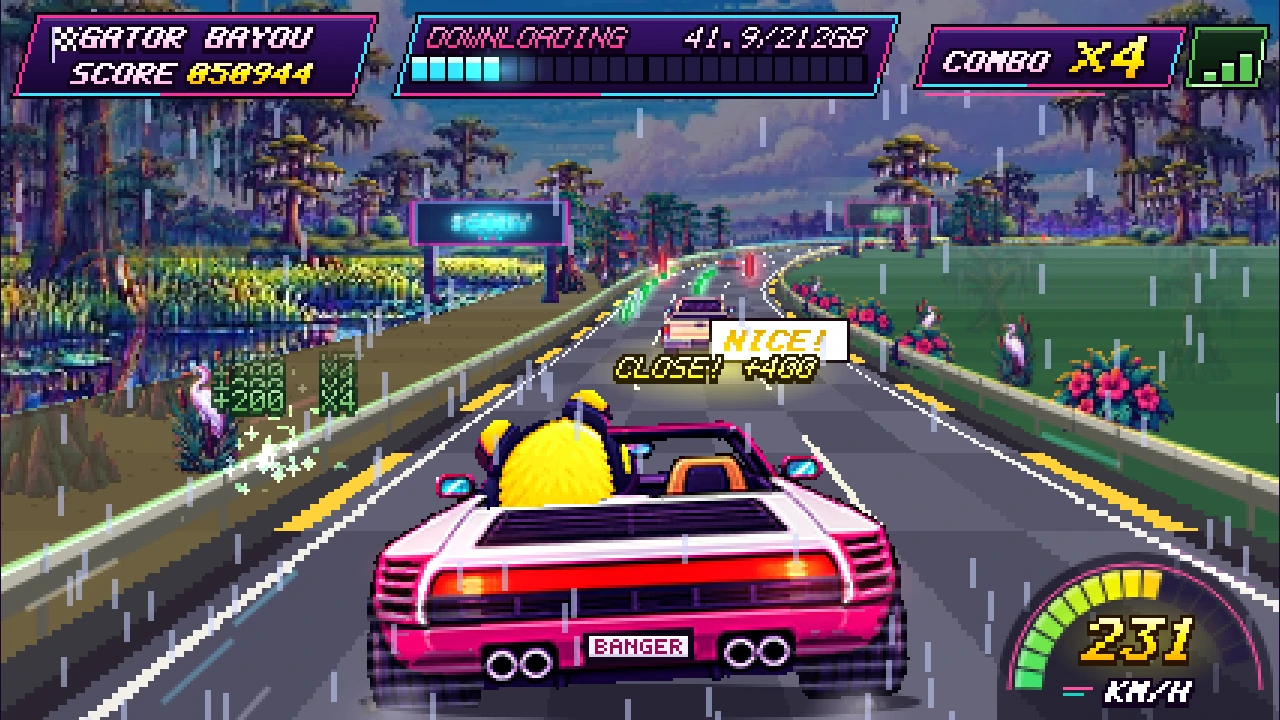
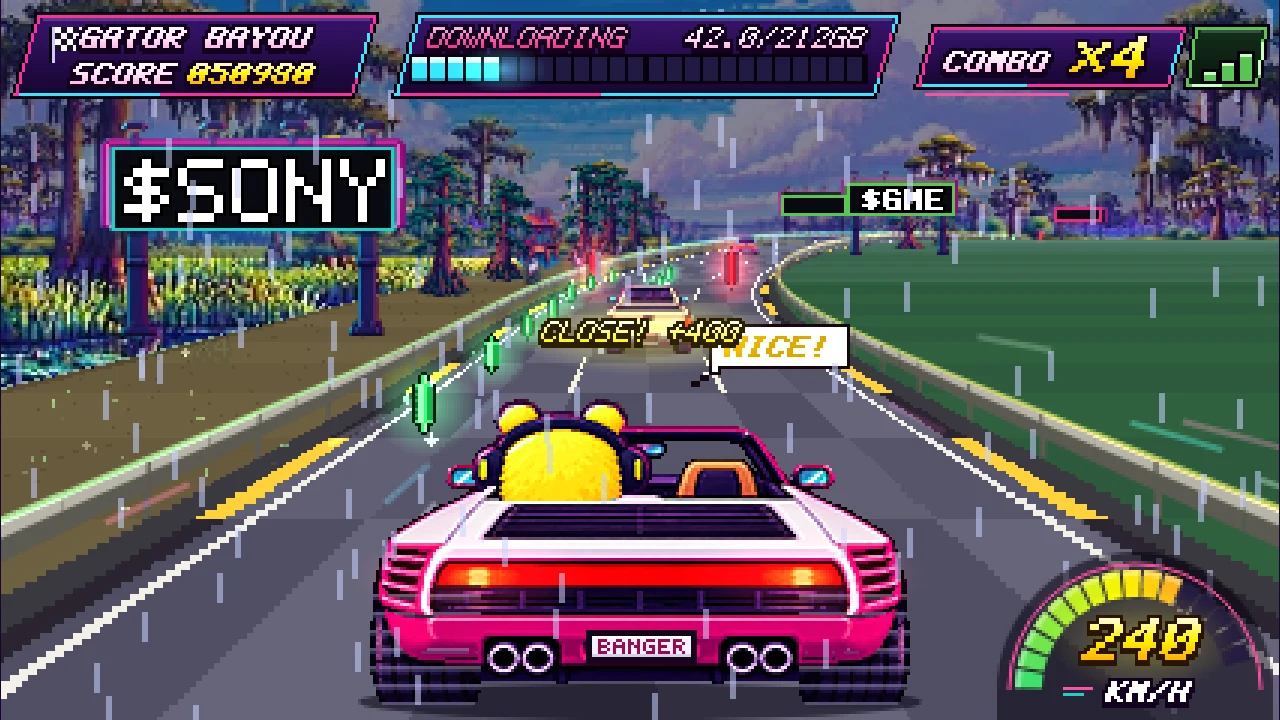
Update to v2.5.1

diff --git a/README.md b/README.md
@@ -10,7 +10,7 @@ It is part of **Bitcade**, my series of browser arcade games. It plays on phones
 no sign-up. I made it for Castro's Decibel community campaign. It is an unofficial fan game: GTA 6 is named only as a
 fan reference, and there is no Rockstar art or logo in it.
 
-**Version 2.5.0. Launching Thursday, November 12, 2026.**
+**Version 2.5.1. Launching Thursday, November 12, 2026.**
 
 ![Coral Cays: the Decibel airliner flies over the road](docs/gifs/coral_cays_flyover.gif)
 
@@ -33,9 +33,11 @@ faster you go, the faster the download fills.
 
 - **Six areas**, each with its own painted sky and roadside and one big moment of its own.
 - **Long levels** that start easy and ramp up: Coral Cays and Gator Bayou are the welcome, Neon City is the hard part.
-- **Boost shield.** A speed arrow gives you a few seconds of extra speed, a faster download and a bubble that smashes
-  through anything in your way.
+- **Boost shield.** A speed arrow gives you a few seconds of extra speed and a faster download. While it lasts the
+  car flashes neon colours and smashes through anything in its way, and the flashing speeds up just before it ends.
 - **Near-miss chains.** Skim past cars to chain close calls. Every fifth in a row is NEAR MISS X5 for +1000.
+- **Sharp roadside signs** with $TTWO, $SONY and $GME that stay readable at every distance, and scenery that fades
+  in smoothly instead of popping in.
 - **Traffic you can feel.** Cars, vans and motorcycles are solid, keep their distance from each other and only change
   lanes into free space.
 - **NOW ENTERING banners** for every new area, and Banger shouting along: WOO!, BOOM!, OOF!, KA-CHING! and more.
@@ -64,28 +66,30 @@ and the connection is lost. Speed arrows give you the boost shield, and signal p
 
 | # | Area | Its moment |
 | --- | --- | --- |
-| 1 | Coral Cays | The Decibel airliner flies low overhead |
+| 1 | Coral Cays | The Decibel airliner flies low overhead, livery and all |
 | 2 | Gator Bayou | A lightning storm over the wetlands |
-| 3 | Sugar Flats | A crop duster trailing dust |
+| 3 | Sugar Flats | A crop duster towing a DECIBEL banner |
 | 4 | Pine Ridge | A meteor shower over the hills |
 | 5 | Motel Coast | Seagulls across the sunset |
 | 6 | Neon City | Searchlights and lasers from the skyline |
 
 ![The six areas and their moments](docs/screenshots/areas.webp)
 
-| Pine Ridge meteor shower | Gator Bayou on desktop |
+| Sugar Flats banner plane | Pine Ridge meteor shower |
 | --- | --- |
-| ![Pine Ridge meteor shower](docs/gifs/pine_ridge_meteors.gif) | ![Gator Bayou in the storm](docs/screenshots/gator_bayou_desktop.webp) |
+| ![A crop duster towing a DECIBEL banner over Sugar Flats](docs/gifs/sugar_flats_banner_plane.gif) | ![Pine Ridge meteor shower](docs/gifs/pine_ridge_meteors.gif) |
+
+![Gator Bayou in the storm, on desktop](docs/screenshots/gator_bayou_desktop.webp)
 
 ## Boost shield
 
-![Neon City with the boost shield on](docs/gifs/neon_city_boost_shield.gif)
+![The car flashing neon colours during a boost](docs/gifs/boost_shield_flash.gif)
 
 ## Download complete
 
 | The finish | Game over |
 | --- | --- |
-| ![DOWNLOAD COMPLETE, then endless mode](docs/gifs/download_complete.gif) | ![Game over with the top 20 and your own rank](docs/screenshots/game_over_rank.webp) |
+| ![DOWNLOAD COMPLETE, then endless mode](docs/gifs/download_complete.gif) | ![Game over with the top 20 and your rank](docs/screenshots/game_over.webp) |
 
 ## Soundtrack
 
